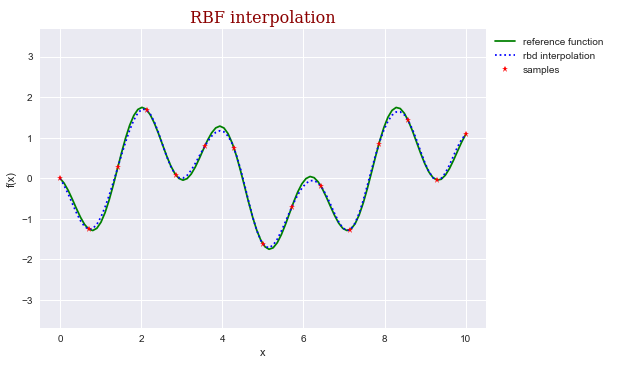
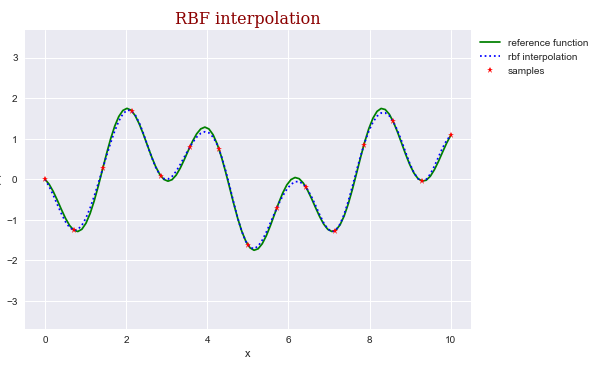
fix small stuff

diff --git a/scatteredDataInterpolation_radialBasisFunction.py b/scatteredDataInterpolation_radialBasisFunction.py
@@ -108,7 +108,7 @@ def drawRBF_1D(points, weights, kernel, referenceFunction, minRange, maxRange, s
     plt.plot(t, referenceFunction(t), linestyle='solid', color="green", label="reference function")
     # draw rbf
     t = np.linspace(minRange, maxRange, int((maxRange - minRange) / step), endpoint=True)
-    plt.plot(t, radialBasisFunction(points, weights, kernel, t), linestyle='dotted', color="blue", label="rbd interpolation")
+    plt.plot(t, radialBasisFunction(points, weights, kernel, t), linestyle='dotted', color="blue", label="rbf interpolation")
     # draw points
     x, y = zip(*points)
     plt.plot(x, y, '*', color='red', label="samples")   

diff --git a/README.md b/README.md
@@ -41,7 +41,7 @@ Numerical Methods with Python, Numpy and Matplotlib
 ![RBF](https://github.com/vincentbonnetcg/Toy-Code/blob/master/img/scatteredDataInterpolation_radialBasisFunction.png)
 
 ## . Graph Colouring
-**File** [scatteredDataInterpolation_radialBasisFunction.py](https://github.com/vincentbonnetcg/Toy-Code/blob/master/graphColouring_greedyAlgorithm.py)<br>
+**File** [graphColouring_greedyAlgorithm.py](https://github.com/vincentbonnetcg/Toy-Code/blob/master/graphColouring_greedyAlgorithm.py)<br>
 **Description** Greedy colouring algorithm - useful to parallelize the solving process of Constrained Systems
 
 ![RBF](https://github.com/vincentbonnetcg/Toy-Code/blob/master/img/graphColouring_greedyAlgorithm.png)
